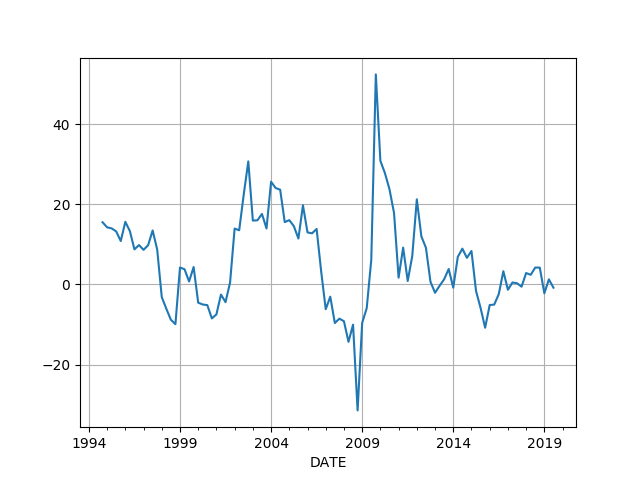
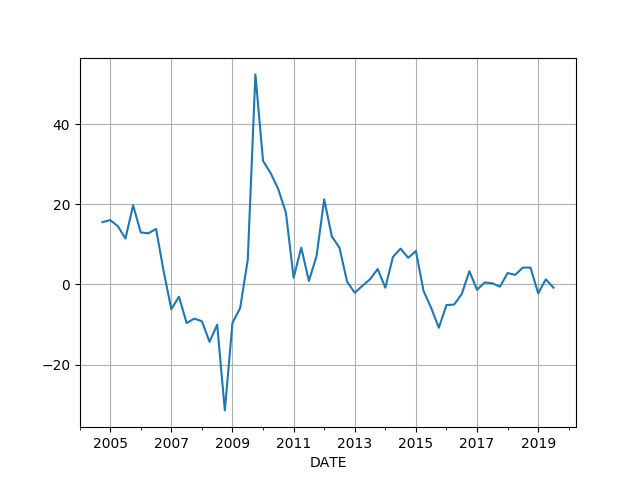
-

diff --git a/en/2019/05/stats.md b/en/2019/05/stats.md
@@ -284,7 +284,7 @@ DATE
 ```
 
 ```python
-df.tail(100).profits.plot()
+df.tail(60).profits.plot()
 plt.grid(True)
 plt.savefig('profit.png')
 ```
